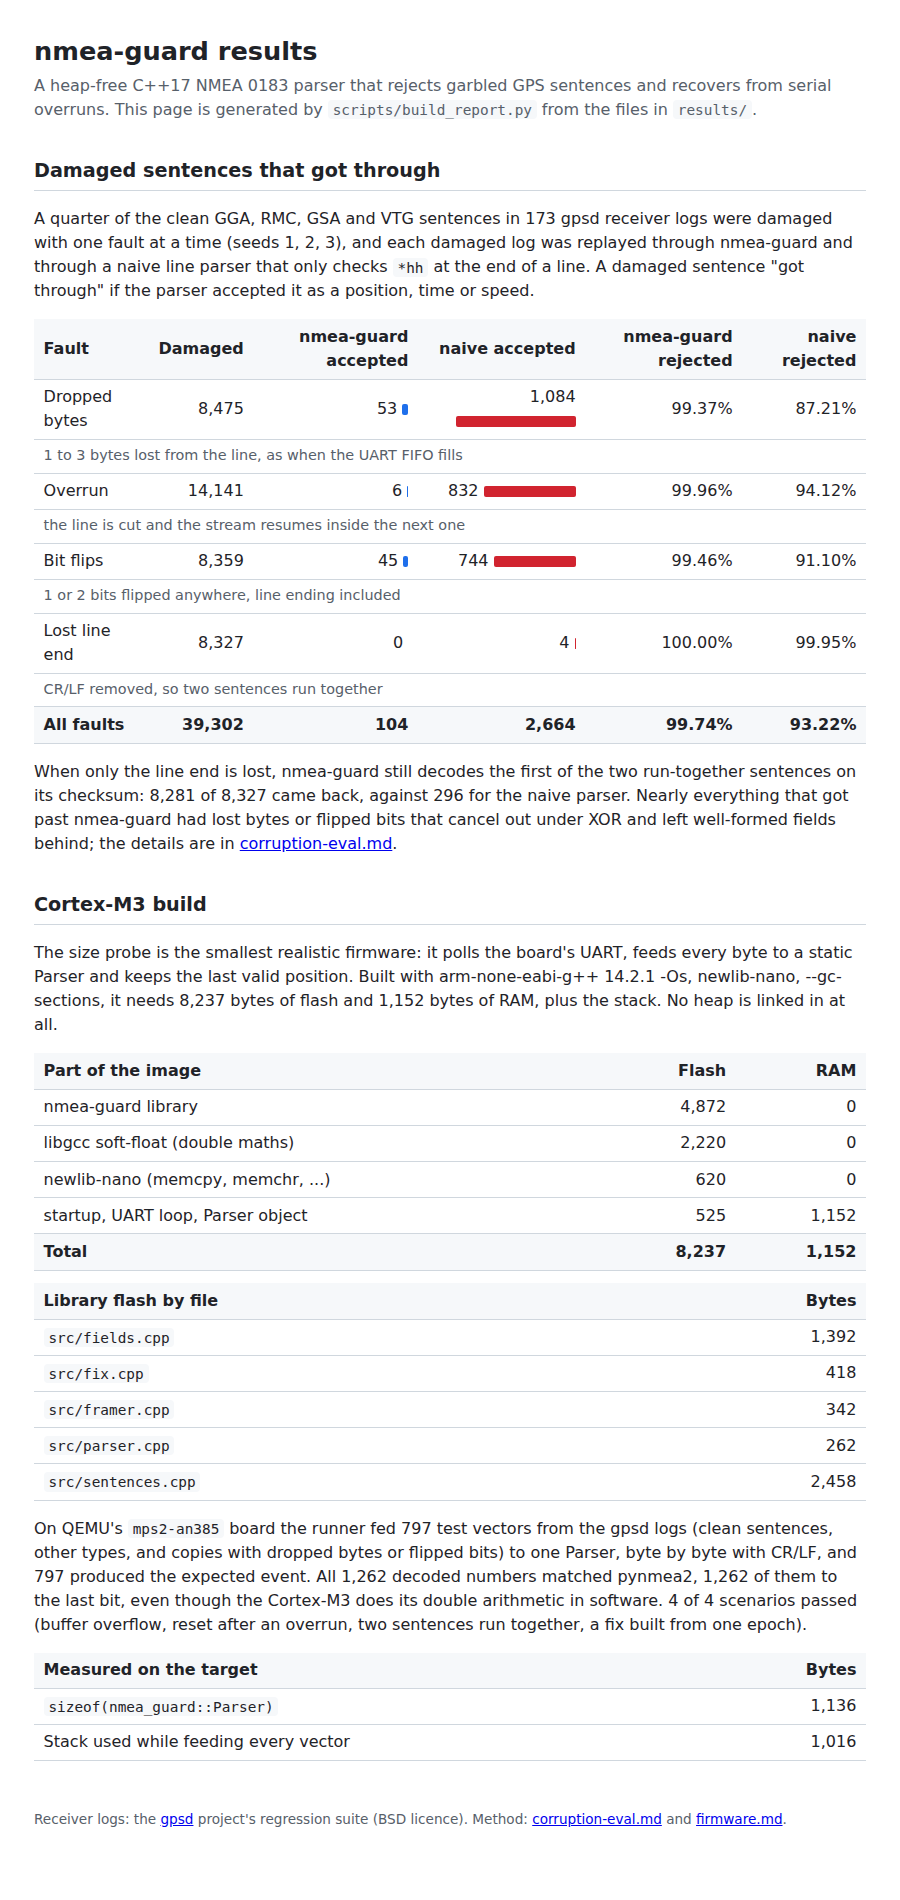
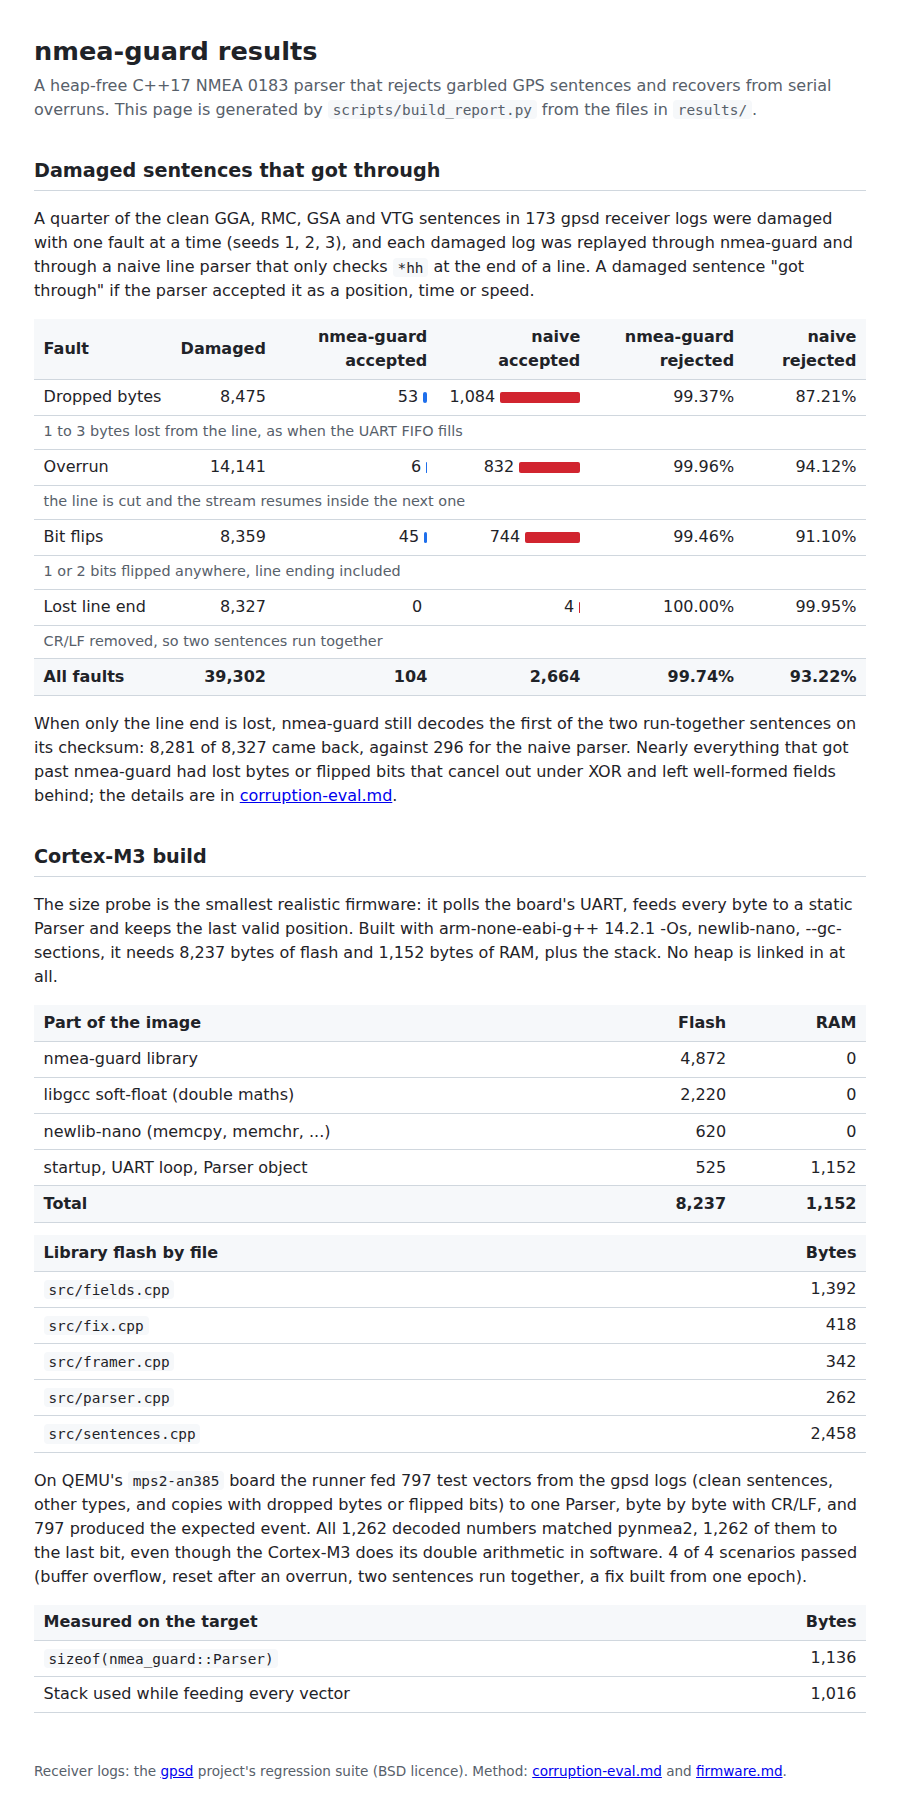
Keep the report's numbers on one line without pushing the last column off the page

Changed region(s): [[0.0311, 0.0, 0.9644, 0.9956], [0.5289, 0.9333, 0.8711, 0.9956], [0.7467, 0.56, 0.8089, 0.6844]]

diff --git a/docs/index.html b/docs/index.html
@@ -11,7 +11,8 @@ h1 { font-size: 1.6rem; margin-bottom: .2rem; }
 h2 { font-size: 1.2rem; margin-top: 2.2rem; border-bottom: 1px solid #d0d7de; padding-bottom: .3rem; }
 p.lead { color: #57606a; margin-top: 0; }
 table { border-collapse: collapse; width: 100%; margin: .8rem 0; font-variant-numeric: tabular-nums; }
-th, td { padding: .35rem .6rem; border-bottom: 1px solid #d0d7de; text-align: right; white-space: nowrap; }
+th, td { padding: .35rem .6rem; border-bottom: 1px solid #d0d7de; text-align: right; }
+td { white-space: nowrap; }
 td.note { white-space: normal; }
 th:first-child, td:first-child { text-align: left; }
 th { background: #f6f8fa; font-weight: 600; }
@@ -37,7 +38,7 @@ if the parser accepted it as a position, time or speed.</p>
 <table>
 <tr><th>Fault</th><th>Damaged</th><th>nmea-guard accepted</th><th>naive accepted</th>
 <th>nmea-guard rejected</th><th>naive rejected</th></tr>
-<tr><td>Dropped bytes</td><td>8,475</td><td>53 <span class="bar guard" style="width:6px"></span></td><td>1,084 <span class="bar naive" style="width:120px"></span></td><td>99.37%</td><td>87.21%</td></tr><tr><td class="note" colspan="6">1 to 3 bytes lost from the line, as when the UART FIFO fills</td></tr><tr><td>Overrun</td><td>14,141</td><td>6 <span class="bar guard" style="width:1px"></span></td><td>832 <span class="bar naive" style="width:92px"></span></td><td>99.96%</td><td>94.12%</td></tr><tr><td class="note" colspan="6">the line is cut and the stream resumes inside the next one</td></tr><tr><td>Bit flips</td><td>8,359</td><td>45 <span class="bar guard" style="width:5px"></span></td><td>744 <span class="bar naive" style="width:82px"></span></td><td>99.46%</td><td>91.10%</td></tr><tr><td class="note" colspan="6">1 or 2 bits flipped anywhere, line ending included</td></tr><tr><td>Lost line end</td><td>8,327</td><td>0 <span class="bar guard" style="width:0px"></span></td><td>4 <span class="bar naive" style="width:1px"></span></td><td>100.00%</td><td>99.95%</td></tr><tr><td class="note" colspan="6">CR/LF removed, so two sentences run together</td></tr><tr><th>All faults</th><th>39,302</th><th>104</th><th>2,664</th><th>99.74%</th><th>93.22%</th></tr>
+<tr><td>Dropped bytes</td><td>8,475</td><td>53 <span class="bar guard" style="width:4px"></span></td><td>1,084 <span class="bar naive" style="width:80px"></span></td><td>99.37%</td><td>87.21%</td></tr><tr><td class="note" colspan="6">1 to 3 bytes lost from the line, as when the UART FIFO fills</td></tr><tr><td>Overrun</td><td>14,141</td><td>6 <span class="bar guard" style="width:1px"></span></td><td>832 <span class="bar naive" style="width:61px"></span></td><td>99.96%</td><td>94.12%</td></tr><tr><td class="note" colspan="6">the line is cut and the stream resumes inside the next one</td></tr><tr><td>Bit flips</td><td>8,359</td><td>45 <span class="bar guard" style="width:3px"></span></td><td>744 <span class="bar naive" style="width:55px"></span></td><td>99.46%</td><td>91.10%</td></tr><tr><td class="note" colspan="6">1 or 2 bits flipped anywhere, line ending included</td></tr><tr><td>Lost line end</td><td>8,327</td><td>0 <span class="bar guard" style="width:0px"></span></td><td>4 <span class="bar naive" style="width:1px"></span></td><td>100.00%</td><td>99.95%</td></tr><tr><td class="note" colspan="6">CR/LF removed, so two sentences run together</td></tr><tr><th>All faults</th><th>39,302</th><th>104</th><th>2,664</th><th>99.74%</th><th>93.22%</th></tr>
 </table>
 <p>When only the line end is lost, nmea-guard still decodes the first of the two run-together sentences on its
 checksum: 8,281 of 8,327 came back, against

diff --git a/scripts/build_report.py b/scripts/build_report.py
@@ -45,7 +45,8 @@ h1 { font-size: 1.6rem; margin-bottom: .2rem; }
 h2 { font-size: 1.2rem; margin-top: 2.2rem; border-bottom: 1px solid #d0d7de; padding-bottom: .3rem; }
 p.lead { color: #57606a; margin-top: 0; }
 table { border-collapse: collapse; width: 100%; margin: .8rem 0; font-variant-numeric: tabular-nums; }
-th, td { padding: .35rem .6rem; border-bottom: 1px solid #d0d7de; text-align: right; white-space: nowrap; }
+th, td { padding: .35rem .6rem; border-bottom: 1px solid #d0d7de; text-align: right; }
+td { white-space: nowrap; }
 td.note { white-space: normal; }
 th:first-child, td:first-child { text-align: left; }
 th { background: #f6f8fa; font-weight: 600; }
@@ -67,7 +68,7 @@ def pct(passed: int, damaged: int) -> str:
 
 
 def bar(cls: str, passed: int, worst: int) -> str:
-    width = 0 if worst == 0 else max(1, round(120 * passed / worst)) if passed else 0
+    width = 0 if worst == 0 else max(1, round(80 * passed / worst)) if passed else 0
     return f'<span class="bar {cls}" style="width:{width}px"></span>'
 
 
